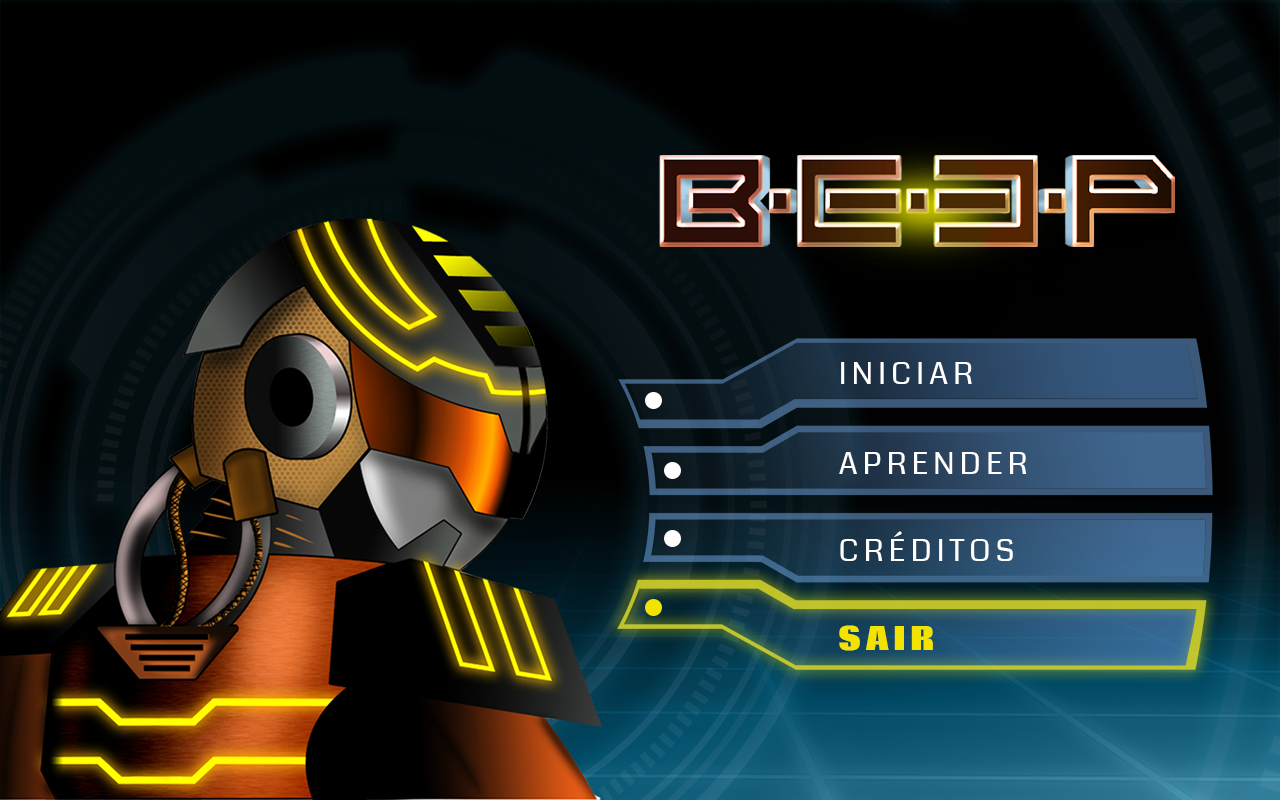
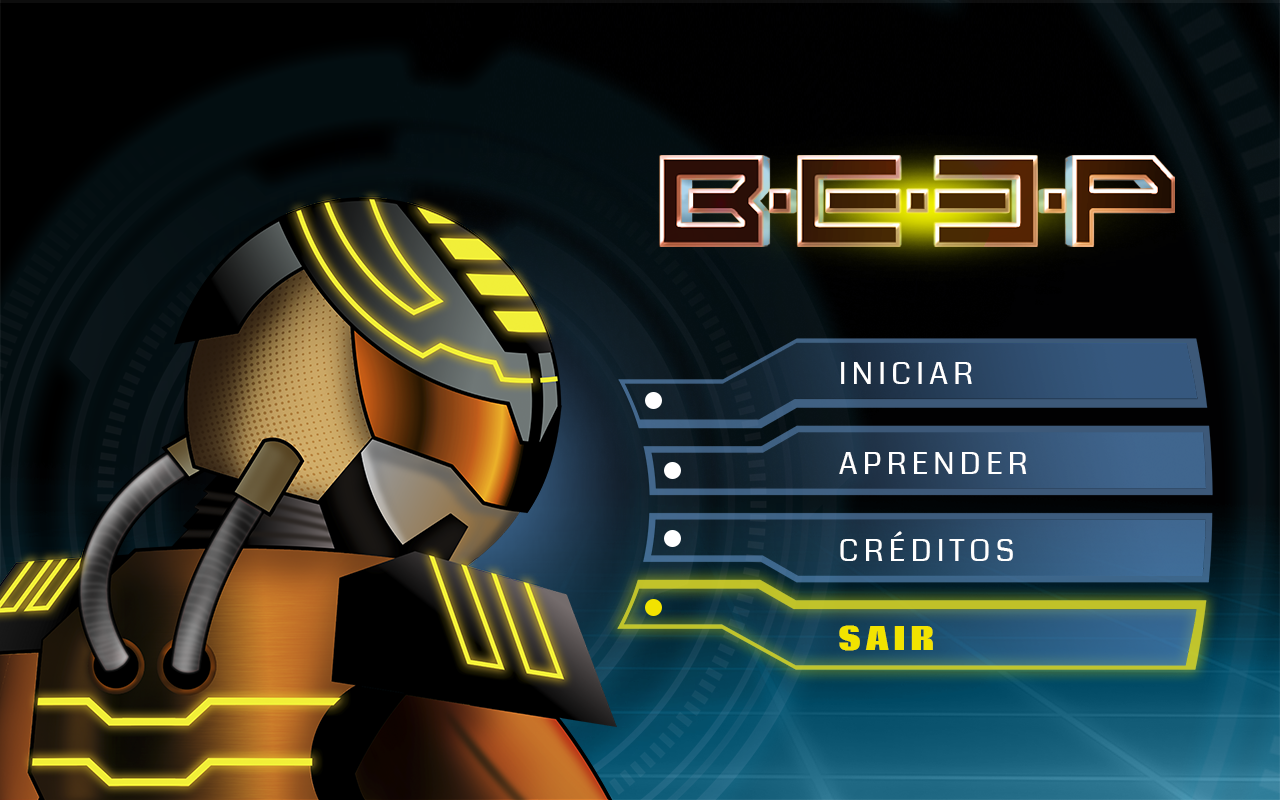
tela principal e creditos substituídos

Changed region(s): [[0.0, 0.25, 0.5312, 1.0], [0.5938, 0.1875, 0.8438, 0.3125]]

diff --git a/B.E.E.P/Assets.js b/B.E.E.P/Assets.js
@@ -162,7 +162,7 @@ function loadSprites(){ // carrega os sprites respectivos.
 	// sprites do botão de voltar.
 	spr_btn_back_0 = loadImage('assets/btn_back_0.png');
 	spr_btn_back_1 = loadImage('assets/btn_back_1.png');
-	// sprites das abas de aprender
+	// sprites das abas de aprender.
 	spr_btn_learn_00 = loadImage('assets/btn_learn_00.png');
 	spr_btn_learn_01 = loadImage('assets/btn_learn_01.png');
 	spr_btn_learn_02 = loadImage('assets/btn_learn_02.png');
@@ -232,14 +232,14 @@ var snd_ost_0, snd_ost_1; ost_number = 0;
 
 function loadSounds(){
 	soundFormats('mp3', 'ogg');
-	// efeitos sonoros
+	// efeitos sonoros.
  	snd_over_btn_menu = loadSound('assets/snd_over_button_menu.mp3');
  	snd_char_move = loadSound('assets/snd_char_move.mp3');
  	snd_press_btn = loadSound('assets/snd_press_button.mp3');
  	snd_click_btn_menu = loadSound('assets/snd_click_button_menu.mp3');
  	snd_char_hit = loadSound('assets/snd_char_hit.mp3');
  	snd_block_portal = loadSound('assets/snd_block_portal.mp3');
- 	// músicas de fundo
+ 	// músicas de fundo.
  	snd_ost_0 = loadSound('assets/snd_ost_0.mp3');
  	snd_ost_1 = loadSound('assets/snd_ost_1.mp3');
 }

diff --git a/B.E.E.P/ActionTab.js b/B.E.E.P/ActionTab.js
@@ -102,7 +102,6 @@ class ActionTab{ // tebela de ações que serão executadas.
 						if (i == actionIndex - 1) image(spr_btn_decision_1,this.position.x - 520 + i*90, this.position.y + 110,70,70);
 						else image(spr_btn_decision_0,this.position.x - 520 + i*90, this.position.y + 110,70,70);
 						break;
-
 				}
 			}
 			else{

diff --git a/B.E.E.P/LevelChoice.js b/B.E.E.P/LevelChoice.js
@@ -89,6 +89,5 @@ function loadLevelChoice(){
 		image(spr_btn_back_0, 900, 700, 250, 102);
 	}
 
-
 	if(missLevelChoiceButton == 5) soundOverButtonMenuCount = 0;
 }

diff --git a/B.E.E.P/Beep Instructions.js b/B.E.E.P/Beep Instructions.js
@@ -154,5 +154,4 @@ function loadInstruction(){
 		soundOverButtonMenuCount = 0;
 		image(spr_btn_skip_0, 900, 700, 250, 102);
 	}
-
 }

diff --git a/B.E.E.P/Main.js b/B.E.E.P/Main.js
@@ -387,7 +387,3 @@ function actionController(){
 		}
 	}
 }
-
-
-
-
